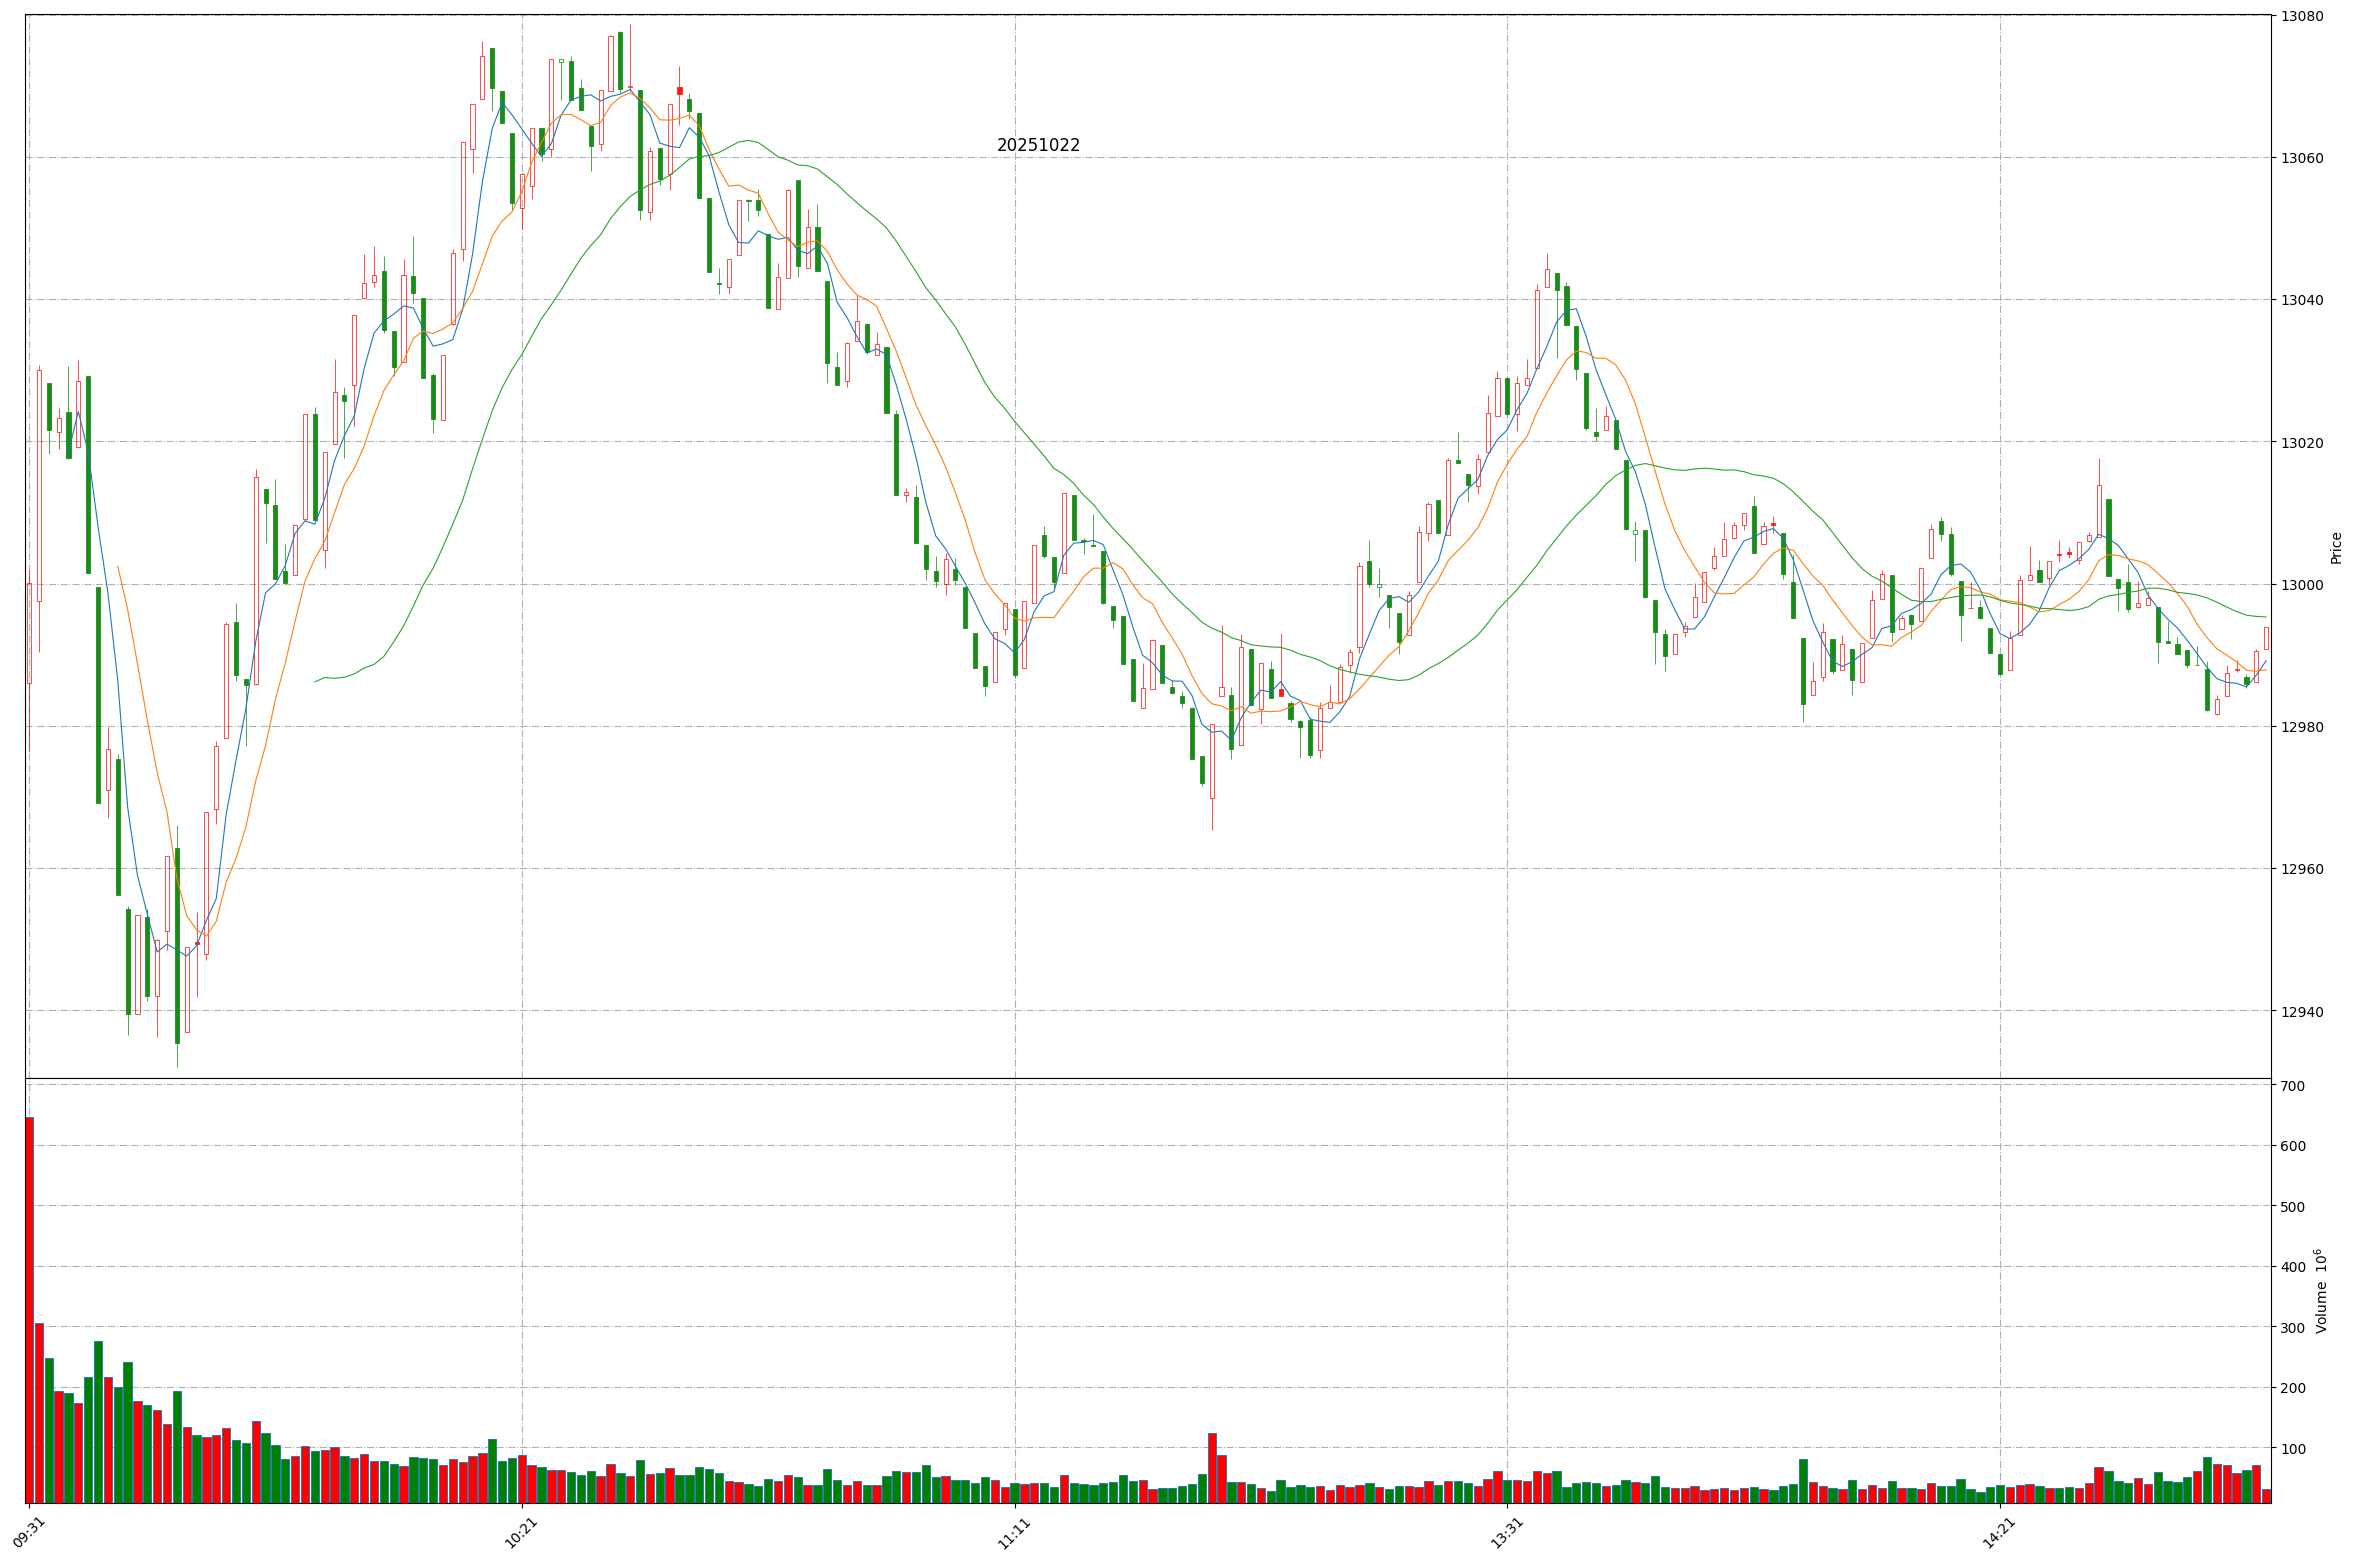
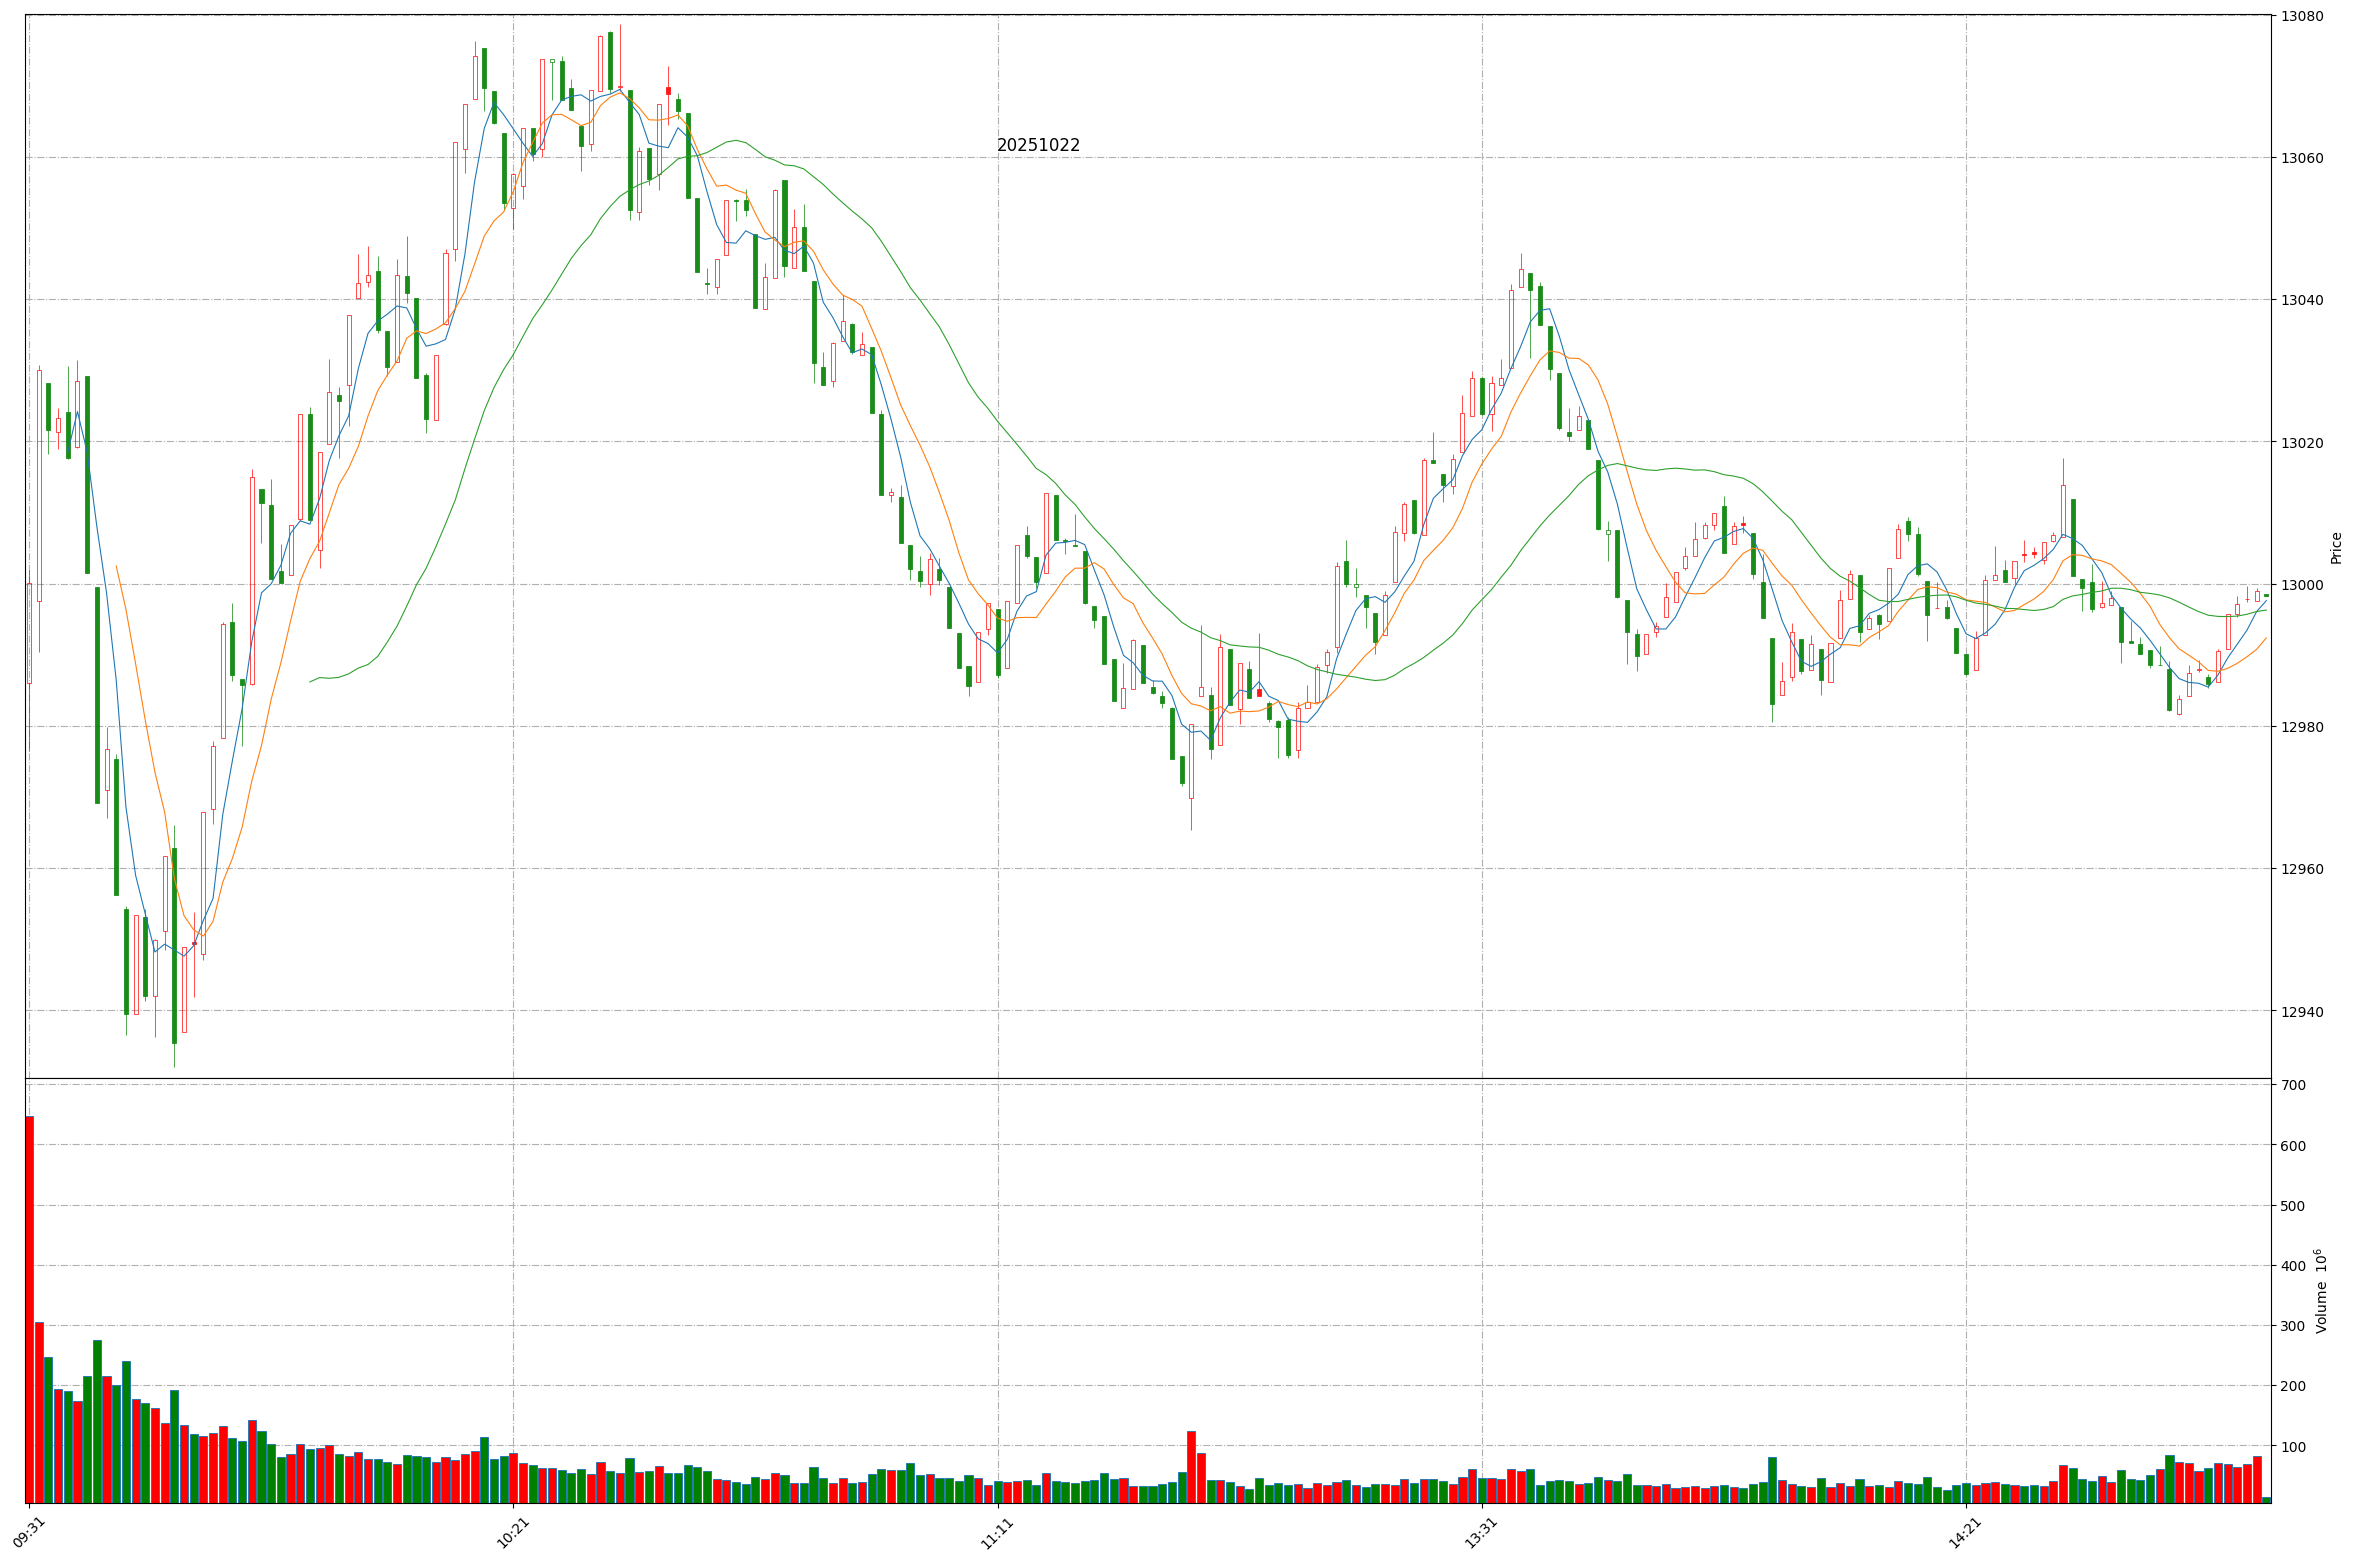
Github action update at 2025-10-22 14:51:14.

diff --git a/README.md b/README.md
@@ -1,11 +1,11 @@
 
 # Daily-A-share-market-quotes 每日 A 股指数（5min 更新）- 20251022
 
-### 上证指数 20251022 14:47
+### 上证指数 20251022 14:51
 ![](./fig/2025/10/20251022-sh000001.png)
 
-### 深证成指 20251022 14:47
+### 深证成指 20251022 14:51
 ![](./fig/2025/10/20251022-sz399001.png)
 
-### 北证50 20251022 14:47
+### 北证50 20251022 14:51
 ![](./fig/2025/10/20251022-bj899050.png)
